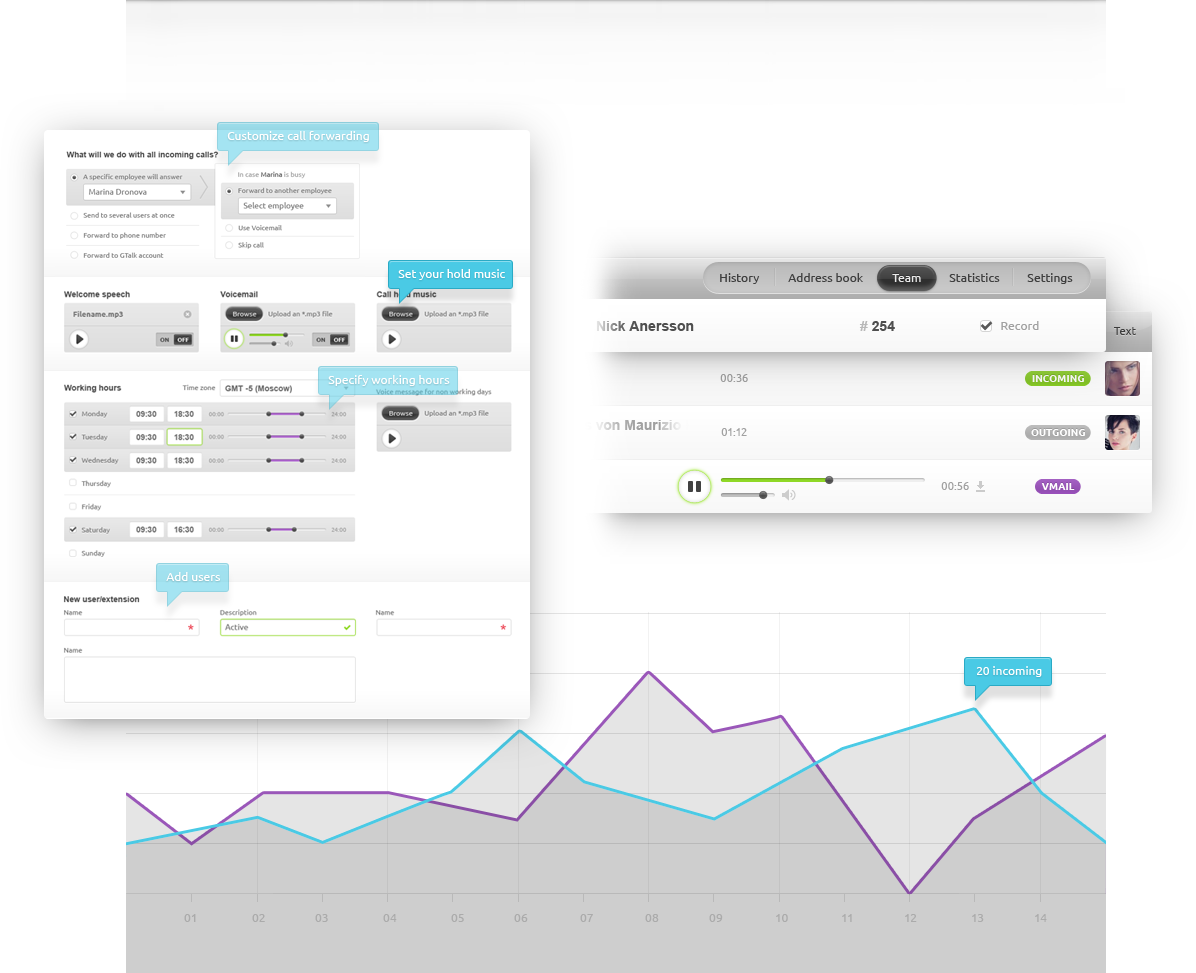
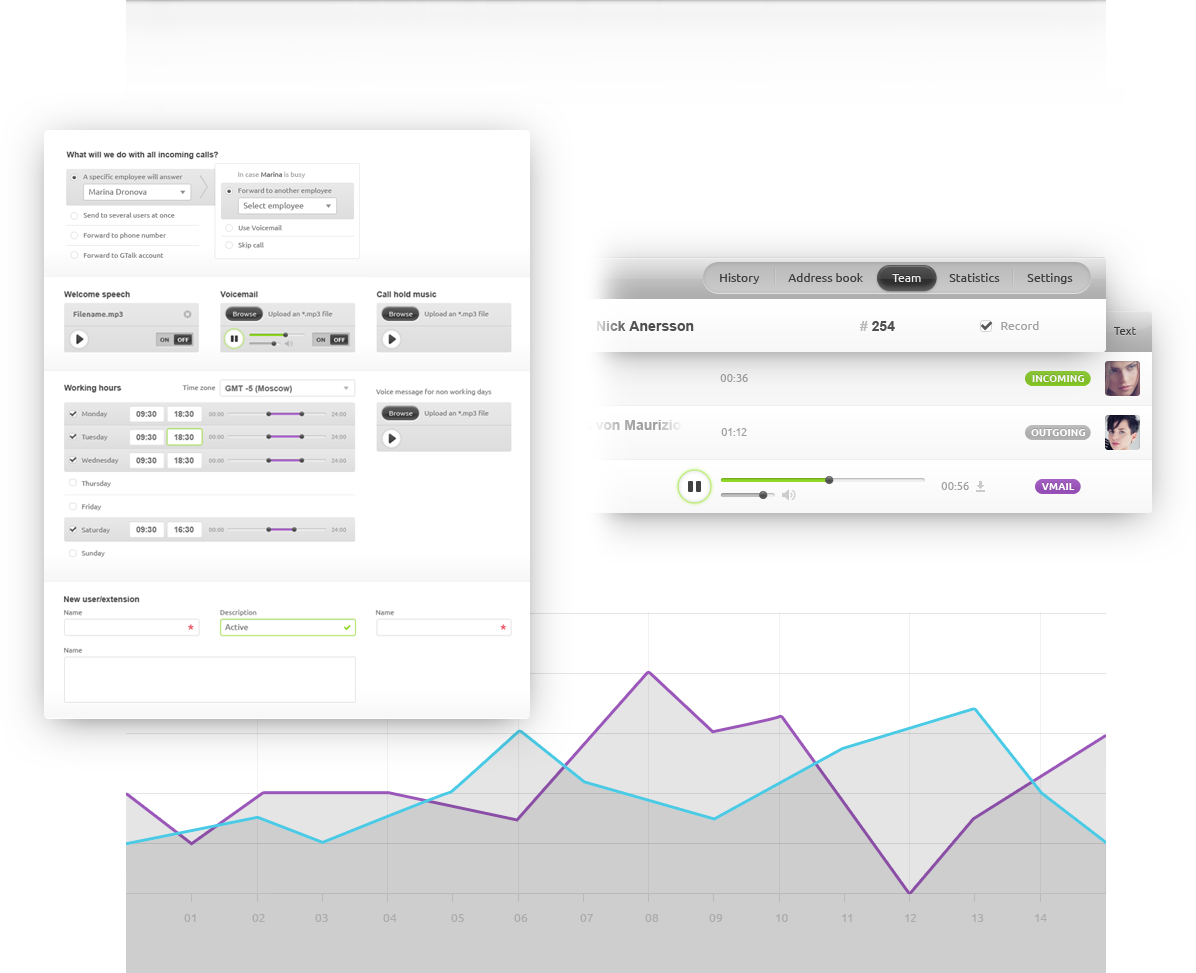
Баблы + косметика

diff --git a/s/style.css b/s/style.css
@@ -1828,9 +1828,20 @@ P.q A {
 		.b-features_button {display: block;float: left;top: -5px;}
 				
 	.b-features_functions {margin: 30px 0 0;min-height: 1370px;position: relative;}
-		.b-features_functions_captions {width: 1060px;height: 527px;background: url(../i/b-features-functions-captions.png) no-repeat 0 0;margin: 0 0 0 -40px;}
-		.b-features_functions_bg {position: absolute;top: 605px;left: 20px;width: 873px;height: 744px;background: url(../i/b-features-functions-bg.png) no-repeat 0 0;}
-			
+		.b-features_functions_captions {position: relative;width: 1060px;height: 527px;background: url(../i/features-functions-captions.png) no-repeat 0 0;margin: 0 0 0 -40px;}
+		.b-features_functions_bg {position: absolute;top: 605px;left: 20px;width: 873px;height: 744px;background: url(../i/features-functions-bg.png) no-repeat 0 0;}
+			.b-features_functions_bubble {position: absolute;}
+				.b-features_functions_bubble_historysearch {top: 0;left: 105px;}
+				.b-features_functions_bubble_historylist {top: 44px;left: 214px;}
+				.b-features_functions_bubble_messaging {top: 0;left: 941px;}
+				.b-features_functions_bubble_voicemail {top: 149px;left: 545px;}
+				.b-features_functions_bubble_audio {top: 159px;left: 833px;}
+				.b-features_functions_bubble_callback {top: 264px;left: 719px;}
+				.b-features_functions_bubble_sms {top: 318px;left: 450px;}
+				.b-features_functions_bubble_faxes {top: 414px;left: 603px;}
+				.b-features_functions_bubble_historyfilter {top: 236px;left: 58px;}				
+				
+							
 		.b-features_functions_list {position: relative;margin: 15px 50px 0 485px;font-size: 25px;line-height: 30px;color: #80b435;text-align: left;}
 			
 			.b-features_functions_item {border-bottom: 1px solid #afafaf;position: relative;display: block;padding: 0 0 13px;margin: 0 0 15px;}
@@ -1857,11 +1868,18 @@ P.q A {
 					.b-features_functions_item_messaging .b-features_functions_item_number {color: #fff;background: #72a32d;} 
 					.b-features_functions_item_messaging span {position: relative;} 
 				.b-features_functions_item_address {} 
-					.b-features_functions_item_address .b-features_functions_item_arrow {top: 40px;left: -2px;}		
-				
+					.b-features_functions_item_address .b-features_functions_item_arrow {top: 40px;left: -2px;}
+
 				
 	.b-features_companies {position: relative;height: 973px;}
 		.b-features_companies_bg {position: absolute;top: 0;left: -126px;width: 1196px;height: 973px;background: url(../i/features-companies-bg.png) no-repeat 0 0;}
+
+		.b-features_companies_bubble {position: absolute;}
+			.b-features_companies_bubble_customize {top: 122px;left: 212px;}
+			.b-features_companies_bubble_music {top: 260px;left: 383px;}
+			.b-features_companies_bubble_hours {top: 366px;left: 313px;}
+			.b-features_companies_bubble_users {top: 563px;left: 151px;}
+			.b-features_companies_bubble_incoming {top: 657px;left: 959px;}
 				
 		.b-features_companies_list {position: relative;margin: 50px 50px 0 485px;font-size: 25px;line-height: 30px;color: #80b435;text-align: left;}
 			
@@ -1891,7 +1909,7 @@ P.q A {
 	.b-features_signup {position: relative;background: url(../i/features-signup-bg.png) no-repeat 0 0;height: 290px;padding: 20px 20px;font-size: 19px;line-height: 25px;color: #dadada;}			
 		.b-features_signup p {width: 640px;margin: 20px auto;font-size: 19px;line-height: 25px;color: #dadada;}			
 
-	.b-features_textfield {font-size: 19px;line-height: 19px;padding: 14px 12px;width: 155px;margin: 0 14px 0 0;color: #8e8e8e;background: #343434;border: 1px solid #1f1f1f;}			
+	.b-features_textfield {font-size: 19px;line-height: 19px;padding: 14px 12px 12px;width: 155px;margin: 0 14px 0 0;color: #8e8e8e;background: #343434;border: 1px solid #1f1f1f;}			
 	.b-features_textfield {
 		-moz-border-radius: 5px;
 		-webkit-border-radius: 5px;
@@ -1969,4 +1987,32 @@ P.q A {
 	.b-button30_ask {}
 		.b-button30_ask span {padding-left: 15px;}
 		.b-button30_ask i {width: 19px;height: 20px;background: url(../i/sprite.png) no-repeat -429px 0px;}
+	
+.b-bubble {height: 59px;display: inline-block;color: #fff;text-shadow: 0 1px rgba(0, 0, 0, .2);font-size: 12px;line-height: 12px;white-space: nowrap;padding: 0 0 0 40px;cursor: pointer;}
+	.b-bubble span {display: inline-block;height: 50px;padding: 9px 15px 0 0;text-indent: -24px;}
+		
+	.b-bubble_blue {background: url(../i/bubble-blue-left.png) no-repeat 0 0;}
+		.b-bubble_blue span {background: url(../i/bubble-blue-right.png) no-repeat 100% 0;}
+	.b-bubble_blue:hover {background: url(../i/bubble-blue-left.png) no-repeat 0 -59px;}
+		.b-bubble_blue:hover span {background: url(../i/bubble-blue-right.png) no-repeat 100% -59px;}
+
+.b-bubble {text-align: left;height: 59px;display: inline-block;color: #fff;text-shadow: 0 1px rgba(0, 0, 0, .2);font-size: 12px;line-height: 12px;white-space: nowrap;padding: 0 0 0 40px;cursor: pointer;}
+	.b-bubble span {display: inline-block;height: 51px;padding: 8px 15px 0 0;text-indent: -24px;}
+
+	.b-bubble_blue {background: url(../i/bubble-blue-left.png) no-repeat 0 0;}
+		.b-bubble_blue span {background: url(../i/bubble-blue-right.png) no-repeat 100% 0;}
+	.b-bubble_blue:hover {background: url(../i/bubble-blue-left.png) no-repeat 0 -59px;}
+		.b-bubble_blue:hover span {background: url(../i/bubble-blue-right.png) no-repeat 100% -59px;}
+
+.b-bubble_double {text-align: left;height: 74px;display: inline-block;color: #fff;text-shadow: 0 1px rgba(0, 0, 0, .2);font-size: 12px;line-height: 12px;white-space: nowrap;padding: 0 0 0 40px;cursor: pointer;}
+	.b-bubble_double div {display: inline-block;height: 51px;padding: 23px 18px 0 0;}
+	.b-bubble_double span {display: block;position: relative;margin-left: -24px;}
+		
+	.b-bubble_double_blue {background: url(../i/bubble-double-blue-left.png) no-repeat 0 0;}
+		.b-bubble_double_blue div {background: url(../i/bubble-double-blue-right.png) no-repeat 100% 0;}
+	.b-bubble_double_blue:hover {background: url(../i/bubble-double-blue-left.png) no-repeat 0 -74px;}
+		.b-bubble_double_blue:hover div {background: url(../i/bubble-double-blue-right.png) no-repeat 100% -74px;}
+	
+	
+	
 	

diff --git a/features_new.htm b/features_new.htm
@@ -4,7 +4,7 @@
 	<title>Telly</title>
 	<meta charset="utf-8">
 	<link rel="stylesheet" href="s/style.css" />
-    <link href="http://fonts.googleapis.com/css?family=Ubuntu&amp;subset=cyrillic,latin" rel="stylesheet" type="text/css">
+    <link href='http://fonts.googleapis.com/css?family=Ubuntu:400,700&subset=latin,cyrillic-ext' rel='stylesheet' type='text/css'>
 	<script src="j/jquery-1.7.2.min.js"></script>
 	<script src="j/decor.js"></script>
 	<script src="j/script.js"></script>
@@ -193,7 +193,17 @@
         
         <div class="b-features_functions">
         	<h2 class="b-features_subheader">Functions for every user</h2>
-        	<div class="b-features_functions_captions"></div>
+        	<div class="b-features_functions_captions">
+        		<div class="b-bubble b-bubble_blue b-features_functions_bubble b-features_functions_bubble_historysearch"><span>History search</span></div>
+        		<div class="b-bubble b-bubble_blue b-features_functions_bubble b-features_functions_bubble_historylist"><span>Call history list</span></div>
+        		<div class="b-bubble b-bubble_blue b-features_functions_bubble b-features_functions_bubble_messaging"><span>Text messaging</span></div>
+        		<div class="b-bubble b-bubble_blue b-features_functions_bubble b-features_functions_bubble_voicemail"><span>Play Voicemail</span></div>
+        		<div class="b-bubble b-bubble_blue b-features_functions_bubble b-features_functions_bubble_audio"><span>Download audio files</span></div>
+        		<div class="b-bubble b-bubble_blue b-features_functions_bubble b-features_functions_bubble_callback"><span>Call back right away</span></div>
+        		<div class="b-bubble b-bubble_blue b-features_functions_bubble b-features_functions_bubble_sms"><span>Read SMS</span></div>
+        		<div class="b-bubble b-bubble_blue b-features_functions_bubble b-features_functions_bubble_faxes"><span>Download faxes</span></div>
+        		<div class="b-bubble_double b-bubble_double_blue b-features_functions_bubble b-features_functions_bubble_historyfilter"><div><span>Filter history<br />items by type</span></div></div>
+        	</div>
         	<div class="b-features_functions_bg"></div>
         	<ol class="b-features_functions_list">
         		<li class="b-features_functions_item b-features_functions_item_history">
@@ -220,7 +230,13 @@
         </div>
         
         <div class="b-features_companies">
-	        <div class="b-features_companies_bg"></div>
+	        <div class="b-features_companies_bg">
+	        	<div class="b-bubble b-bubble_blue b-features_companies_bubble b-features_companies_bubble_customize"><span>Customize call forwarding</span></div>
+        		<div class="b-bubble b-bubble_blue b-features_companies_bubble b-features_companies_bubble_music"><span>Set your hold music</span></div>
+        		<div class="b-bubble b-bubble_blue b-features_companies_bubble b-features_companies_bubble_hours"><span>Specify working hours</span></div>
+        		<div class="b-bubble b-bubble_blue b-features_companies_bubble b-features_companies_bubble_users"><span>Add users</span></div>
+        		<div class="b-bubble b-bubble_blue b-features_companies_bubble b-features_companies_bubble_incoming"><span>20 incoming</span></div>
+	        </div>
         	<h2 class="b-features_subheader">Functions for companies</h2>
         	
         	<ol class="b-features_companies_list">

diff --git a/downloads.htm b/downloads.htm
@@ -4,7 +4,7 @@
 	<title>Telly</title>
 	<meta charset="utf-8">
 	<link rel="stylesheet" href="s/style.css" />
-    <link href="http://fonts.googleapis.com/css?family=Ubuntu&amp;subset=cyrillic,latin" rel="stylesheet" type="text/css">
+    <link href='http://fonts.googleapis.com/css?family=Ubuntu:400,700&subset=latin,cyrillic-ext' rel='stylesheet' type='text/css'>
 	<script src="j/jquery-1.7.2.min.js"></script>
 	<script src="j/decor.js"></script>
 	<script src="j/script.js"></script>

diff --git a/faq.htm b/faq.htm
@@ -4,7 +4,7 @@
 	<title>Telly</title>
 	<meta charset="utf-8">
 	<link rel="stylesheet" href="s/style.css" />
-    <link href='http://fonts.googleapis.com/css?family=Ubuntu&amp;subset=cyrillic,latin' rel='stylesheet' type='text/css'>
+    <link href='http://fonts.googleapis.com/css?family=Ubuntu:400,700&subset=latin,cyrillic-ext' rel='stylesheet' type='text/css'>
 	<script src="j/jquery-1.7.2.min.js"></script>
 	<script src="j/decor.js"></script>
 	<script src="j/script.js"></script>
